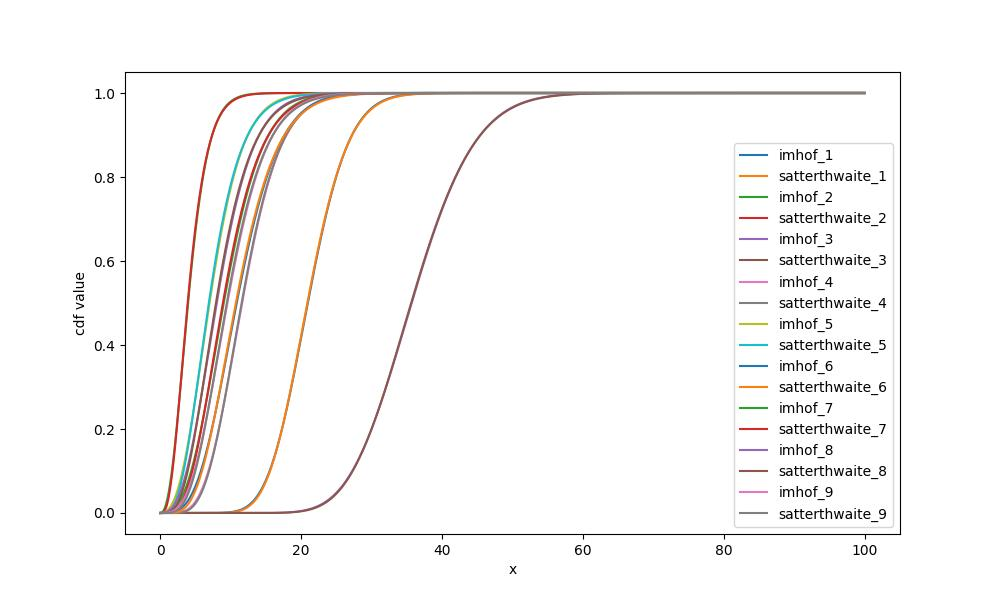
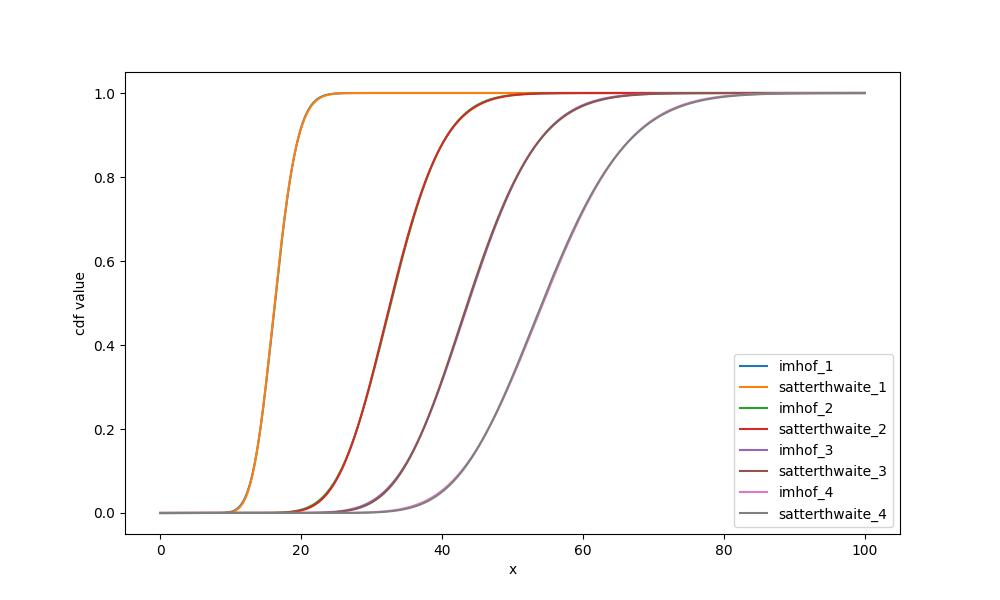
update

diff --git a/chi/chi3.py b/chi/chi3.py
@@ -12,6 +12,7 @@ from plot import opt, diff
 from scipy.integrate import quad
 from scipy.stats import chi2
 from scipy.stats import norm
+import GPy
 
 #----------------------------------------------------------------------------------------
 # fixed system parameters
@@ -188,11 +189,9 @@ def para(t):
     mu_z = (C_T @ u) + (np.linalg.matrix_power(A, t) @ x_0) - x_f
     sigma_w = np.eye(n*t) * 0.1
     sigma_z = N_T @ sigma_w @ N_T.T
-    mu_q = np.trace(sigma_z) + mu_z.T @ mu_z
-    sigma_q = 2* np.trace(sigma_z @ sigma_z) + 4* mu_z.T @ sigma_z @ mu_z
-    print(np.shape(mu_q))
-    print(np.shape(sigma_q))
-    return(sigma_z, mu_z, mu_q, sigma_q)
+  
+
+    return(sigma_z, mu_z)
 
 
 
@@ -203,7 +202,7 @@ for t in range(1, 5):
     im = []
     st = []
     no = []
-    sigma_z, mu_z, mu_q, sigma_q = para(t)
+    sigma_z, mu_z = para(t)
     eigvals, eigvecs = np.linalg.eigh(sigma_z)
     lamdas = eigvals
     mus = np.diag(1 / np.sqrt(eigvals)) @ eigvecs.T @ mu_z
@@ -212,11 +211,11 @@ for t in range(1, 5):
         im.append(cdf1)
         cdf2 = satterthwaite_cdf(i, lamdas, mus)
         st.append(cdf2)
-        cdf3 = norm.cdf(i, loc = mu_q, scale = np.sqrt(sigma_q))
-        no.append(cdf3)
+      
+     
     plt.plot(x, im, label = 'imhof_{}'.format(t))
     plt.plot(x, st, label = 'satterthwaite_{}'.format(t))
-    plt.plot(x, no, label = 'normal_{}'.format(t))
+
     plt.xlabel('x')
     plt.ylabel('cdf value')
     plt.legend()
